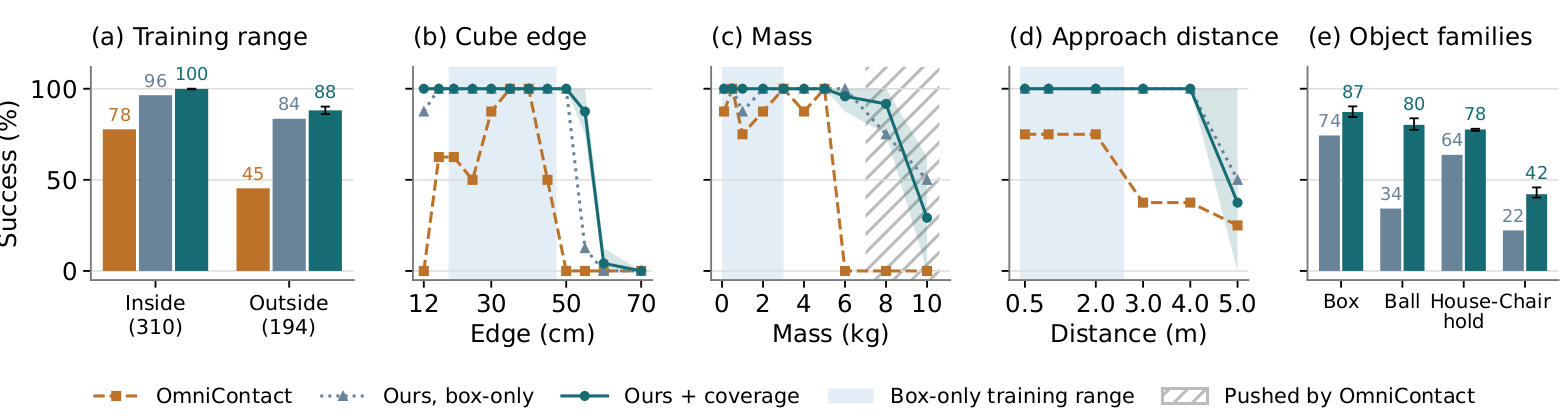
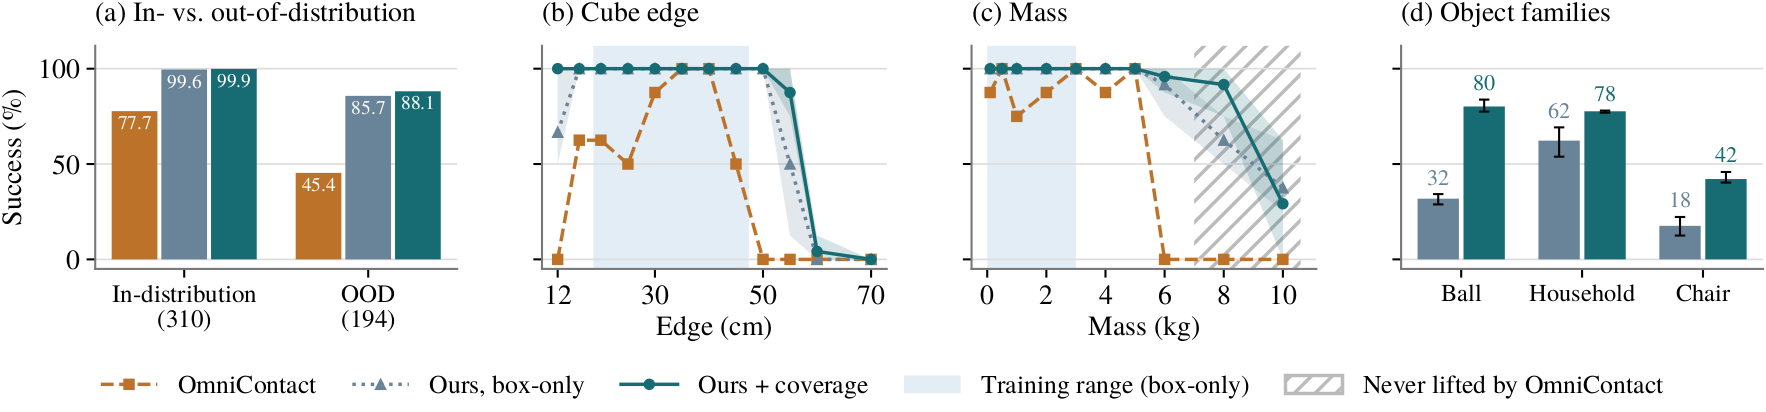
Sync numbers and figures with the updated paper
New abstract, box-only results as the mean of three seeds (94.2 / 99.6 / 85.7),
Carry Box row, object families 38.2 -> 69.3, new evaluation and pipeline
figures, ablation curves, and the zero-shot sim-to-real description.

diff --git a/index.html b/index.html
@@ -97,7 +97,7 @@
 
     <section class="wrap" id="real-robot">
       <h2>On the real robot</h2>
-      <p>A pick-up policy trained with the same reward and motion prior runs on the Unitree G1. It lifts two different boxes, and under a large downward pull it follows the box down and lifts it again. The recovery is not scripted: losing the object returns the robot to an earlier stage of the reward. For pick-and-place, a final training stage adds the G1's motor torque–speed limits, effort regularization and disturbances, and keeps 93.5% success in simulation.</p>
+      <p>The box-pickup policy transfers zero-shot to the Unitree G1. When the target switches between two boxes, it redirects its grasp and lifts the newly selected box. It keeps its grasp under sideways and downward pulls, and re-grasps and lifts the box after it is pulled from its hands. None of this is scripted: the reward stage is recomputed from the scene during training, so the policy learns to recover after losing contact.</p>
       <div class="grid2 bleed" id="hardware-videos">
         <figure>
           <video class="lazy" data-src="videos/hw_pickup_two_boxes.mp4" poster="videos/hw_pickup_two_boxes.jpg" muted loop playsinline></video>
@@ -114,12 +114,12 @@
     <section class="wrap" id="abstract">
       <div class="stats">
         <div class="stat"><span class="num oc">65.3%</span><span class="lbl">OmniContact<br><small>reference tracking, hours of mocap</small></span></div>
-        <div class="stat"><span class="num task">91.5%</span><span class="lbl">Ours, box-only<br><small>trained on boxes only</small></span></div>
+        <div class="stat"><span class="num task">94.2%</span><span class="lbl">Ours, box-only<br><small>trained on boxes only</small></span></div>
         <div class="stat"><span class="num cov">95.4%</span><span class="lbl">Ours + coverage<br><small>wider simulation, same reward and clip</small></span></div>
       </div>
-      <p class="stats-note">Pick-and-place success on 504 shared scenarios with boxes up to 6&nbsp;kg.</p>
+      <p class="stats-note">Pick-and-place success on 504 shared scenarios with boxes up to 6&nbsp;kg. Ours: mean of three seeds.</p>
       <h2>Abstract</h2>
-      <p>Many recent humanoid loco-manipulation works mostly use reinforcement learning (RL) to track motion references, since rewards for long-horizon, contact-rich tasks are hard to design and explore. Each new object or placement then needs more motion capture, retargeting, or planning. We ask whether RL can instead learn a complete loco-manipulation task from task rewards, outperform current state-of-the-art works, and extend to other object types without per-object rewards or tuning. An object-agnostic staged reward built from contacts and geometry specifies pick-and-place, one human–object clip serves only as a motion prior, and randomized simulation supplies the variation. On 504 shared scenarios with boxes up to 6&nbsp;kg, the policy trained only on boxes succeeds in 91.5% of episodes, and in 83.5% of those outside its training range in object size, mass, and distance, against 65.3% and 45.4% for OmniContact, a reference-tracking system trained on hours of motion capture. It also picks up object families it has never seen, and widening the simulated distribution, without new demonstrations or reward changes, raises success to 95.4% on boxes and 77.7% on other objects. The same formulation trains policies for hardware pickup. RL can thus act as the task learner, shifting the design burden from collecting reference motions to specifying task objectives.</p>
+      <p>Many recent humanoid loco-manipulation works use reinforcement learning (RL) to track motion references, since long-horizon, contact-rich tasks are hard to specify with rewards and hard to explore. Each new object or placement then needs more motion capture, retargeting, or planning. We find that RL can directly learn a complete loco-manipulation task from task rewards, outperform a state-of-the-art approach, and extend to other object types without per-object rewards or tuning. An object-agnostic staged reward built from contacts and geometry specifies pick-and-place, one human–object clip serves only as a motion prior, and randomized simulation supplies the variation. On the same randomized pick-and-place scenarios, our policy trained only on boxes achieves 99.6% success within its training range, compared with 77.7% for a baseline trained on hours of motion capture. The gap widens outside it in object size, shape, mass, and distance (85.7% versus 45.4%). It also completes 38.2% of episodes with unseen object families, and widening the simulated distribution, without new demonstrations or reward changes, raises this to 69.3%. These findings suggest that generalizable humanoid loco-manipulation need not rely on extensive motion libraries, but can emerge from task-driven RL with minimal demonstration guidance.</p>
     </section>
 
 
@@ -144,33 +144,34 @@
 
     <section class="wrap" id="comparison">
       <h2>Comparison with OmniContact</h2>
-      <p>OmniContact executes planned contact flows with a tracking policy trained on hours of motion capture. We run its released policy in its own MuJoCo setup on 504 shared scenarios: nominal placements plus sweeps over size, mass, shape, distance and goal placement, 194 of them outside our box-only training range. An episode succeeds if the object is carried and released at rest within 0.35&nbsp;m of the goal, without a fall.</p>
+      <p>OmniContact plans contact-flow references that a tracking policy trained on hours of motion capture executes. We run its released MuJoCo policy on 504 shared scenarios that vary size, mass, shape, approach and goal placement, with boxes up to 6&nbsp;kg; 194 of them lie outside our box-only training range. An episode succeeds if the object is carried at least 10&nbsp;cm above the floor for 0.3&nbsp;s, then released at rest within 0.35&nbsp;m of the goal, without a fall.</p>
       <div class="cols results">
         <div>
           <table class="table">
-            <caption>Success on the 504 scenarios. Inside / outside: the box-only training range. + Coverage: mean of three seeds. *Zero-shot.</caption>
+            <caption>Success on the 504 scenarios, split by the box-only training range, and on OmniContact's Carry Box benchmark (boxes within 3&nbsp;m). Ours: mean of three seeds. *Zero-shot.</caption>
             <thead><tr><th></th><th class="oc">OmniContact</th><th class="task">Box-only</th><th class="cov">+ Coverage</th></tr></thead>
             <tbody>
-              <tr class="headline"><td>Success, all 504 (%)</td><td>65.3</td><td>91.5</td><td><b>95.4</b></td></tr>
-              <tr class="indent"><td>inside range, 310 (%)</td><td>77.7</td><td>96.5</td><td><b>99.9</b></td></tr>
-              <tr class="indent"><td>outside range, 194 (%)</td><td>45.4</td><td>83.5</td><td><b>88.1</b></td></tr>
-              <tr><td>Lifted (%)</td><td>92.1</td><td>94.0</td><td><b>96.2</b></td></tr>
-              <tr><td>Failed after lifting (episodes)</td><td>135</td><td>13</td><td><b>4.0</b></td></tr>
-              <tr><td>Falls (episodes)</td><td>69</td><td>31</td><td><b>3.3</b></td></tr>
-              <tr><td>Other object families (%)</td><td>–</td><td>56.4*</td><td><b>77.7</b></td></tr>
+              <tr class="headline"><td>Success, all 504 (%)</td><td>65.3</td><td>94.2</td><td><b>95.4</b></td></tr>
+              <tr class="indent"><td>in-distribution, 310 (%)</td><td>77.7</td><td>99.6</td><td><b>99.9</b></td></tr>
+              <tr class="indent"><td>out-of-distribution, 194 (%)</td><td>45.4</td><td>85.7</td><td><b>88.1</b></td></tr>
+              <tr><td>Lifted (%)</td><td>92.1</td><td>94.2</td><td><b>96.2</b></td></tr>
+              <tr><td>Failed after lifting (episodes)</td><td>135</td><td><b>0</b></td><td>4.0</td></tr>
+              <tr><td>Falls (episodes)</td><td>69</td><td>13.7</td><td><b>2.7</b></td></tr>
+              <tr><td>Carry Box, within 3&nbsp;m (%)</td><td>82.8</td><td><b>97.2</b></td><td>94.9</td></tr>
+              <tr><td>Other object families (%)</td><td>–</td><td>38.2*</td><td><b>69.3</b></td></tr>
             </tbody>
           </table>
         </div>
         <div class="insight">
           <h3>The gap opens after the lift</h3>
-          <p>Both systems lift the object in over 92% of episodes, but OmniContact then fails in 135 of them and falls in 69, against 13 and 31 for our box-only policy. The difference comes while carrying, setting down and releasing the object.</p>
+          <p>Both systems lift the object in over 92% of episodes, but OmniContact then fails in 135 of them, while our box-only policy completes every episode in which it lifts the object. The difference comes while carrying, setting down and releasing it.</p>
           <h3>Beyond the training range</h3>
-          <p>Outside its training range the box-only policy still succeeds in 83.5% of scenarios, against 45.4%. OmniContact never lifts the 55&nbsp;cm cube and completes none of the 12 or 50&nbsp;cm cubes.</p>
+          <p>Out of distribution, the box-only policy still succeeds in 85.7% of scenarios, against 45.4%. It handles 16&nbsp;cm cubes, and 55&nbsp;cm cubes after the coverage stage; OmniContact fails on the smallest and largest cubes and on 6&nbsp;kg boxes.</p>
         </div>
       </div>
       <figure class="figure">
-        <img src="static/img/evaluation_sweeps.png" alt="(a) Success inside and outside the box-only training range; (b-d) success as cube edge, mass and approach distance vary; (e) object families zero-shot and after coverage; for OmniContact, ours box-only and ours plus coverage." loading="lazy">
-        <figcaption>(a) Success inside and outside the box-only training range. (b–d) Sweeps over cube edge, mass and approach distance; shaded: box-only training range. (e) Other object families, zero-shot and after coverage.</figcaption>
+        <img src="static/img/evaluation_sweeps.png" alt="(a) Success in-distribution and out-of-distribution; (b, c) success as cube size and mass vary; (d) success on balls, household objects and chairs, zero-shot and after coverage; for OmniContact, ours box-only and ours plus coverage." loading="lazy">
+        <figcaption>(a) Success in and out of the box-only training distribution. (b, c) Success across cube sizes and masses; shaded: box-only training range; hatched masses were never lifted by OmniContact and are excluded from the shared benchmark (eight scenarios per point). (d) Other object families: the box-only policy zero-shot, and after the coverage stage. Ours: mean and range over three seeds.</figcaption>
       </figure>
       <div id="head-to-head">
         <h3 class="gallery-title">Same scenario: OmniContact fails, ours succeeds</h3>
@@ -186,10 +187,10 @@
             <div class="bar" id="bar-boxonly"></div>
           </div>
           <div class="bar-legend" id="bar-legend"></div>
-          <p class="hint">Episode outcomes on the 504 scenarios.</p>
+          <p class="hint">Episode outcomes on the 504 scenarios; ours: mean of three seeds.</p>
         </div>
         </div>
-      <!-- H2H_DATA:start --><script type="application/json" id="h2h-data">{"modes": {"fell": [{"src": "videos/vs_oc_boxonly/01_standard_box_fell.mp4", "poster": "videos/vs_oc_boxonly/01_standard_box_fell.jpg", "title": "Standard box, goal 1.2 m to the robot's left", "ours": "placed at 2.4 s", "oc": "fell at 10.5 s", "caption": "The standard box with the goal to the robot's left: ours places it in 2.4 s; OmniContact sets it down on the goal but then falls at 10.5 s.", "tag": "", "speed": 1}, {"src": "videos/vs_oc_boxonly/07_box_behind_fell.mp4", "poster": "videos/vs_oc_boxonly/07_box_behind_fell.jpg", "title": "Box behind the robot, to its left", "ours": "placed at 1.8 s", "oc": "fell at 11.7 s", "caption": "With the box behind the robot, ours turns, picks it up and places it in 1.8 s; OmniContact brings it to the goal but falls at 11.7 s.", "tag": "", "speed": 1}, {"src": "videos/vs_oc_boxonly/02_goal_3m_fell.mp4", "poster": "videos/vs_oc_boxonly/02_goal_3m_fell.jpg", "title": "Goal 3 m away", "ours": "placed at 2.8 s", "oc": "fell at 10.2 s", "caption": "Carrying the box to a goal 3 m away: ours places it in 2.8 s; OmniContact gets there but falls at 10.2 s, right as it lets go of the box.", "tag": "", "speed": 1}], "never": [{"src": "videos/vs_oc_boxonly/11_wide_box_never_lifted.mp4", "poster": "videos/vs_oc_boxonly/11_wide_box_never_lifted.jpg", "title": "Wide box: 70 × 40 × 30 cm", "ours": "placed at 2.1 s", "oc": "never lifted the box", "caption": "A wide 70 × 40 × 30 cm box: ours places it in 2.1 s; OmniContact never gets it off the floor in the 25 s episode.", "tag": "", "speed": 2}, {"src": "videos/vs_oc_boxonly/04_cube55_never_lifted.mp4", "poster": "videos/vs_oc_boxonly/04_cube55_never_lifted.jpg", "title": "Large box: 55 cm cube, 1 kg", "ours": "placed at 3.2 s", "oc": "never lifted the box", "caption": "A large 55 cm cube: ours (+ coverage) lifts and places it in 3.2 s; OmniContact never gets it off the floor in the 25 s episode.", "tag": "+ coverage", "speed": 2}], "holding": [{"src": "videos/vs_oc_boxonly/05_flat_box_still_holding.mp4", "poster": "videos/vs_oc_boxonly/05_flat_box_still_holding.jpg", "title": "Flat box: 50 × 50 × 20 cm", "ours": "placed at 5.5 s", "oc": "still holding at the end", "caption": "A flat 50 × 50 × 20 cm box: ours places it in 5.5 s; OmniContact picks it up late and is still holding it when the 25 s episode ends.", "tag": "", "speed": 2}, {"src": "videos/vs_oc_boxonly/06_box_5m_still_holding.mp4", "poster": "videos/vs_oc_boxonly/06_box_5m_still_holding.jpg", "title": "Box 5 m away", "ours": "placed at 6.9 s", "oc": "still holding at the end", "caption": "The box starts 5 m away: ours walks over, carries it back and places it in 6.9 s; OmniContact brings it back but is still holding it when the 25 s episode ends.", "tag": "", "speed": 2}, {"src": "videos/vs_oc_boxonly/12_box_directly_behind_still_holding.mp4", "poster": "videos/vs_oc_boxonly/12_box_directly_behind_still_holding.jpg", "title": "Box directly behind the robot", "ours": "placed at 2.0 s", "oc": "still holding at the end", "caption": "With the box directly behind the robot, ours turns, picks it up and places it in 2.0 s; OmniContact picks it up but is still holding it when the 25 s episode ends.", "tag": "", "speed": 2}], "drop": [{"src": "videos/vs_oc_boxonly/03_cube12_dropped.mp4", "poster": "videos/vs_oc_boxonly/03_cube12_dropped.jpg", "title": "Small box: 12 cm cube, 1 kg", "ours": "placed at 5.0 s", "oc": "dropped the box 1.9 m from the goal", "caption": "A small 12 cm cube: ours places it in 5.0 s; OmniContact drops it on the way, 1.9 m from the goal.", "tag": "", "speed": 1}, {"src": "videos/vs_oc_boxonly/08_goal_behind_dropped.mp4", "poster": "videos/vs_oc_boxonly/08_goal_behind_dropped.jpg", "title": "Goal behind the robot", "ours": "placed at 2.5 s", "oc": "dropped the box 1.1 m from the goal", "caption": "With the goal behind the robot, ours turns around with the box and places it in 2.5 s; OmniContact drops it 1.1 m from the goal.", "tag": "", "speed": 1}, {"src": "videos/vs_oc_boxonly/10_box_4m_dropped.mp4", "poster": "videos/vs_oc_boxonly/10_box_4m_dropped.jpg", "title": "Box 4 m away", "ours": "placed at 9.7 s", "oc": "dropped the box 3.2 m from the goal", "caption": "The box starts 4 m away: ours carries it back and places it in 9.7 s; OmniContact drops it soon after picking it up, 3.2 m from the goal.", "tag": "", "speed": 1}, {"src": "videos/vs_oc_boxonly/09_heavy_6kg_set_down_off_goal.mp4", "poster": "videos/vs_oc_boxonly/09_heavy_6kg_set_down_off_goal.jpg", "title": "Heavy box: 6 kg", "ours": "placed at 2.1 s", "oc": "set it down 1.1 m from the goal", "caption": "A 6 kg box: ours places it in 2.1 s; OmniContact struggles to lift it and finally sets it down 1.1 m from the goal.", "tag": "", "speed": 2}]}, "outcomes": {"oc": [["success", 329], ["fell", 69], ["never", 38], ["holding", 35], ["drop", 27], ["other", 6]], "boxonly": [["success", 461], ["fell", 31], ["never", 12], ["holding", 0], ["drop", 0], ["other", 0]], "ours": [["success", 484], ["fell", 4], ["never", 15], ["holding", 1], ["drop", 0], ["other", 0]]}}</script><!-- H2H_DATA:end -->
+      <!-- H2H_DATA:start --><script type="application/json" id="h2h-data">{"modes": {"fell": [{"src": "videos/vs_oc_boxonly/01_standard_box_fell.mp4", "poster": "videos/vs_oc_boxonly/01_standard_box_fell.jpg", "title": "Standard box, goal 1.2 m to the robot's left", "ours": "placed at 2.4 s", "oc": "fell at 10.5 s", "caption": "The standard box with the goal to the robot's left: ours places it in 2.4 s; OmniContact sets it down on the goal but then falls at 10.5 s.", "tag": "", "speed": 1}, {"src": "videos/vs_oc_boxonly/07_box_behind_fell.mp4", "poster": "videos/vs_oc_boxonly/07_box_behind_fell.jpg", "title": "Box behind the robot, to its left", "ours": "placed at 1.8 s", "oc": "fell at 11.7 s", "caption": "With the box behind the robot, ours turns, picks it up and places it in 1.8 s; OmniContact brings it to the goal but falls at 11.7 s.", "tag": "", "speed": 1}, {"src": "videos/vs_oc_boxonly/02_goal_3m_fell.mp4", "poster": "videos/vs_oc_boxonly/02_goal_3m_fell.jpg", "title": "Goal 3 m away", "ours": "placed at 2.8 s", "oc": "fell at 10.2 s", "caption": "Carrying the box to a goal 3 m away: ours places it in 2.8 s; OmniContact gets there but falls at 10.2 s, right as it lets go of the box.", "tag": "", "speed": 1}], "never": [{"src": "videos/vs_oc_boxonly/11_wide_box_never_lifted.mp4", "poster": "videos/vs_oc_boxonly/11_wide_box_never_lifted.jpg", "title": "Wide box: 70 × 40 × 30 cm", "ours": "placed at 2.1 s", "oc": "never lifted the box", "caption": "A wide 70 × 40 × 30 cm box: ours places it in 2.1 s; OmniContact never gets it off the floor in the 25 s episode.", "tag": "", "speed": 2}, {"src": "videos/vs_oc_boxonly/04_cube55_never_lifted.mp4", "poster": "videos/vs_oc_boxonly/04_cube55_never_lifted.jpg", "title": "Large box: 55 cm cube, 1 kg", "ours": "placed at 3.2 s", "oc": "never lifted the box", "caption": "A large 55 cm cube: ours (+ coverage) lifts and places it in 3.2 s; OmniContact never gets it off the floor in the 25 s episode.", "tag": "+ coverage", "speed": 2}], "holding": [{"src": "videos/vs_oc_boxonly/05_flat_box_still_holding.mp4", "poster": "videos/vs_oc_boxonly/05_flat_box_still_holding.jpg", "title": "Flat box: 50 × 50 × 20 cm", "ours": "placed at 5.5 s", "oc": "still holding at the end", "caption": "A flat 50 × 50 × 20 cm box: ours places it in 5.5 s; OmniContact picks it up late and is still holding it when the 25 s episode ends.", "tag": "", "speed": 2}, {"src": "videos/vs_oc_boxonly/06_box_5m_still_holding.mp4", "poster": "videos/vs_oc_boxonly/06_box_5m_still_holding.jpg", "title": "Box 5 m away", "ours": "placed at 6.9 s", "oc": "still holding at the end", "caption": "The box starts 5 m away: ours walks over, carries it back and places it in 6.9 s; OmniContact brings it back but is still holding it when the 25 s episode ends.", "tag": "", "speed": 2}, {"src": "videos/vs_oc_boxonly/12_box_directly_behind_still_holding.mp4", "poster": "videos/vs_oc_boxonly/12_box_directly_behind_still_holding.jpg", "title": "Box directly behind the robot", "ours": "placed at 2.0 s", "oc": "still holding at the end", "caption": "With the box directly behind the robot, ours turns, picks it up and places it in 2.0 s; OmniContact picks it up but is still holding it when the 25 s episode ends.", "tag": "", "speed": 2}], "drop": [{"src": "videos/vs_oc_boxonly/03_cube12_dropped.mp4", "poster": "videos/vs_oc_boxonly/03_cube12_dropped.jpg", "title": "Small box: 12 cm cube, 1 kg", "ours": "placed at 5.0 s", "oc": "dropped the box 1.9 m from the goal", "caption": "A small 12 cm cube: ours places it in 5.0 s; OmniContact drops it on the way, 1.9 m from the goal.", "tag": "", "speed": 1}, {"src": "videos/vs_oc_boxonly/08_goal_behind_dropped.mp4", "poster": "videos/vs_oc_boxonly/08_goal_behind_dropped.jpg", "title": "Goal behind the robot", "ours": "placed at 2.5 s", "oc": "dropped the box 1.1 m from the goal", "caption": "With the goal behind the robot, ours turns around with the box and places it in 2.5 s; OmniContact drops it 1.1 m from the goal.", "tag": "", "speed": 1}, {"src": "videos/vs_oc_boxonly/10_box_4m_dropped.mp4", "poster": "videos/vs_oc_boxonly/10_box_4m_dropped.jpg", "title": "Box 4 m away", "ours": "placed at 9.7 s", "oc": "dropped the box 3.2 m from the goal", "caption": "The box starts 4 m away: ours carries it back and places it in 9.7 s; OmniContact drops it soon after picking it up, 3.2 m from the goal.", "tag": "", "speed": 1}, {"src": "videos/vs_oc_boxonly/09_heavy_6kg_set_down_off_goal.mp4", "poster": "videos/vs_oc_boxonly/09_heavy_6kg_set_down_off_goal.jpg", "title": "Heavy box: 6 kg", "ours": "placed at 2.1 s", "oc": "set it down 1.1 m from the goal", "caption": "A 6 kg box: ours places it in 2.1 s; OmniContact struggles to lift it and finally sets it down 1.1 m from the goal.", "tag": "", "speed": 2}]}, "outcomes": {"oc": [["success", 329], ["fell", 69], ["never", 38], ["holding", 35], ["drop", 27], ["other", 6]], "boxonly": [["success", 475], ["fell", 14], ["never", 15], ["holding", 0], ["drop", 0], ["other", 0]], "ours": [["success", 481], ["fell", 3], ["never", 16], ["holding", 0], ["drop", 0], ["other", 4]]}}</script><!-- H2H_DATA:end -->
       </div>
       <div class="carousel bleed">
       <button class="car-btn prev" aria-label="Previous clips">‹</button>
@@ -264,7 +265,7 @@
 
     <section class="wrap" id="coverage">
       <h2>Coverage grows with simulation, not with data</h2>
-      <p>Trained on boxes alone, the policy already completes 56.4% of episodes with balls, household objects and chairs it has never seen. Widening the simulation to include them, with the same reward and no new demonstrations, raises this to 77.7%, and success on the comparison scenarios to 95.4%.</p>
+      <p>Trained on boxes alone, the policy already completes 38.2% of 274 episodes with balls, household objects and chairs it has never seen. Widening the simulation to include them, with the same reward and no new demonstrations, raises this to 69.3%, and success on the comparison scenarios to 95.4%.</p>
       <figure class="single bleed">
         <video class="lazy" data-src="videos/teaser_objects.mp4" poster="videos/teaser_objects.jpg" muted loop playsinline></video>
         <figcaption>Coverage stage: boxes, balls and a chair at random placements and goals; three independent episodes per round, unedited.</figcaption>
@@ -274,11 +275,15 @@
     <section class="wrap" id="ablations">
       <h2>What learning needs</h2>
       <div class="cards3">
-        <div class="card"><b>Stage floors only</b><span class="big">0%</span><p>Rewarded only for reaching the next stage, the policy never lifts the object.</p></div>
-        <div class="card"><b>No walking guidance</b><span class="big">0%</span><p>Lifts the object in 89.5% of episodes but never delivers it.</p></div>
-        <div class="card"><b>No motion prior</b><span class="big">89.9%</span><p>Same success, but it learns the task about 1,000 iterations later.</p></div>
+        <div class="card"><b>Stage floors only</b><span class="big">Never lifts</span><p>Reaching the next stage is rewarded, but nothing indicates how to get there.</p></div>
+        <div class="card"><b>No walking guidance</b><span class="big">Never delivers</span><p>The policy lifts the object but never brings it to the goal.</p></div>
+        <div class="card"><b>No motion prior</b><span class="big">Learns later</span><p>The policy still learns the task, about 1,000 PPO iterations later.</p></div>
       </div>
       <p>Dense progress and walking guidance carry the learning; the one-clip prior mainly speeds it up.</p>
+      <figure class="figure narrow">
+        <img src="static/img/ablation_curves.png" alt="Fraction of training episodes that lift the object and that complete pick-and-place over PPO iterations, for the full method (three seeds), no motion prior, no walking guidance and stage floors only." loading="lazy">
+        <figcaption>Fraction of training episodes that (a) lift the object and (b) complete pick-and-place over PPO iterations. With only stage floors the policy never lifts; without walking guidance it lifts but fails to deliver; without the motion prior it learns about 1,000 iterations later.</figcaption>
+      </figure>
       <figure class="single bleed">
         <video class="lazy" data-src="videos/noamp_rounds.mp4" poster="videos/noamp_rounds.jpg" muted loop playsinline></video>
         <figcaption>Without the motion prior: the task is still solved, with the motion the reward alone produces.</figcaption>

diff --git a/static/css/style.css b/static/css/style.css
@@ -287,3 +287,4 @@ figure { position: relative; }
 @media (prefers-reduced-motion: reduce) { .btn-random.rolling .dice, .btn-random.nudge { animation: none; } }
 
 #real-robot .grid2 video { aspect-ratio: 8 / 7; object-fit: cover; }
+.figure.narrow img { max-width: 760px; display: block; margin: 0 auto; }
